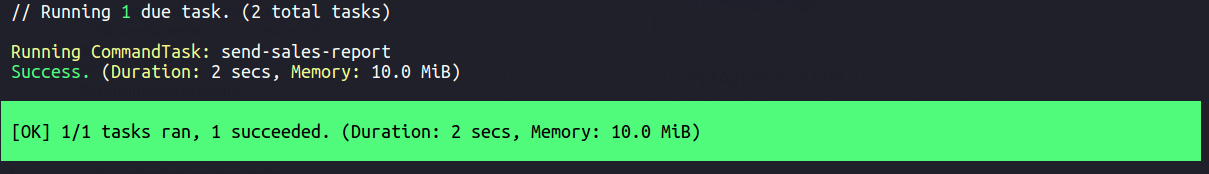
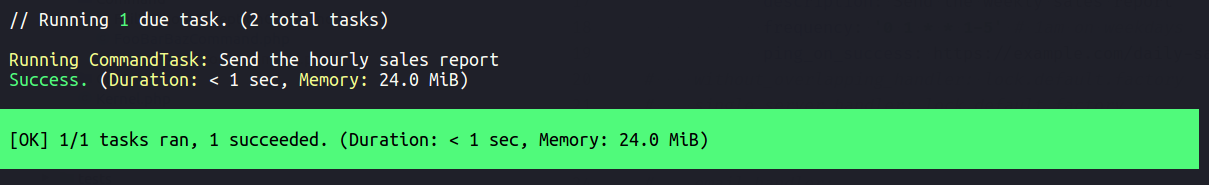
[doc] rewrite cli command doc and update screenshots

diff --git a/doc/cli-commands.md b/doc/cli-commands.md
@@ -34,11 +34,13 @@ zenstruck_schedule:
     
     tasks:
         -   command: send-sales-report --hourly
+            description: Send the hourly sales report
             frequency: '15 * * * 1-5' # hourly on weekdays
             without_overlapping: ~
             email_on_failure: admin@example.com
 
         -   command: send-sales-report --daily
+            description: Send the weekly sales report
             frequency: '0 1 * * 1-5' # 1am on weekdays
             ping_on_success: https://example.com/daily-sales-report
 ```
@@ -48,17 +50,87 @@ following output (exit code `1`):
 
 ```console
 $ bin/console schedule:list
+
+2 Scheduled Tasks Configured
+============================
+
+ ----------------- ------------------------------ ------------ ------------------------------------------------- --------------------------- 
+  Type              Description                    Extensions   Frequency                                         Next Run                   
+ ----------------- ------------------------------ ------------ ------------------------------------------------- --------------------------- 
+  [!] CommandTask   Send the hourly sales report   2            15 * * * 1-5 (Once an hour 5 days a week)         2020-01-22T14:15:00-05:00  
+  CommandTask       Send the weekly sales report   1            0 1 * * 1-5 (Every day 5 days a week at 1:00am)   2020-01-23T01:00:00-05:00  
+ ----------------- ------------------------------ ------------ ------------------------------------------------- --------------------------- 
+
+ [WARNING] 1 task issue:
+
+ [ERROR] To use the email extension you must configure a mailer (config path: "zenstruck_schedule.email_handler").      
+
+ ! [NOTE] For more details, run php bin/console schedule:list --detail
+
+ // 1 Schedule Extension:
+
+ * Run on single server (Zenstruck\ScheduleBundle\Schedule\Extension\SingleServerExtension)
+
+ [WARNING] 1 issue with schedule:
+
+ [ERROR] To use "onSingleServer" you must configure a lock factory (config path:
+         "zenstruck_schedule.single_server_handler").
 ```
 
-![schedule:list with issues](images/schedule-list_issues.png)
+![schedule:list with issues](images/schedule-list-with-issues.png)
 
-Running with the `--detail` flag shows the following (exit code `1`):
+Running with the `--detail` flag outputs the following (exit code `1`):
 
 ```console
 $ bin/console schedule:list --detail
-```
 
-![schedule:list --detail with issues](images/schedule-list-detail_issues.png)
+2 Scheduled Tasks Configured
+============================
+
+(1/2) CommandTask: Send the hourly sales report
+-----------------------------------------------
+
+ ------------------- ---------------------------------------------------- 
+  ID                  9d2023944f540105dd47f7f314138fe92e40300c            
+  Class               Zenstruck\ScheduleBundle\Schedule\Task\CommandTask  
+  Command Arguments   --hourly                                            
+  Frequency           15 * * * 1-5 (Once an hour 5 days a week)           
+  Next Run            Wed, Jan 22, 2020 @ 2:15 (America/New_York -0500)   
+ ------------------- ---------------------------------------------------- 
+
+ // 2 Task Extensions:
+
+ * Without overlapping (Zenstruck\ScheduleBundle\Schedule\Extension\WithoutOverlappingExtension)
+ * On Task Failure, email output to "admin@example.com" (Zenstruck\ScheduleBundle\Schedule\Extension\EmailExtension)
+
+ [WARNING] 1 issue with this task:
+
+ [ERROR] To use the email extension you must configure a mailer (config path: "zenstruck_schedule.email_handler").      
+
+(2/2) CommandTask: Send the weekly sales report
+-----------------------------------------------
+
+ ------------------- ---------------------------------------------------- 
+  ID                  92e08f41a257b69fe877e132559fb7396e308309            
+  Class               Zenstruck\ScheduleBundle\Schedule\Task\CommandTask  
+  Command Arguments   --daily                                             
+  Frequency           0 1 * * 1-5 (Every day 5 days a week at 1:00am)     
+  Next Run            Thu, Jan 23, 2020 @ 1:00 (America/New_York -0500)   
+ ------------------- ---------------------------------------------------- 
+
+ // 1 Task Extension:
+
+ * On Task Success, ping "https://example.com/daily-sales-report" (Zenstruck\ScheduleBundle\Schedule\Extension\PingExtension)
+
+ // 1 Schedule Extension:
+
+ * Run on single server (Zenstruck\ScheduleBundle\Schedule\Extension\SingleServerExtension)
+
+ [WARNING] 1 issue with schedule:
+
+ [ERROR] To use "onSingleServer" you must configure a lock factory (config path:
+         "zenstruck_schedule.single_server_handler").
+```
 
 There are two issues that need to be resolved in the bundle config:
 
@@ -72,21 +144,77 @@ zenstruck_schedule:
         default_from: webmaster@example.com
 ```
 
-Running now shows the following (exit code `0`):
+Running now outputs the following (exit code `0`):
 
 ```console
 $ bin/console schedule:list
+
+2 Scheduled Tasks Configured
+============================
+
+ ------------- ------------------------------ ------------ ------------------------------------------------- --------------------------- 
+  Type          Description                    Extensions   Frequency                                         Next Run                   
+ ------------- ------------------------------ ------------ ------------------------------------------------- --------------------------- 
+  CommandTask   Send the hourly sales report   2            15 * * * 1-5 (Once an hour 5 days a week)         2020-01-22T14:15:00-05:00  
+  CommandTask   Send the weekly sales report   1            0 1 * * 1-5 (Every day 5 days a week at 1:00am)   2020-01-23T01:00:00-05:00  
+ ------------- ------------------------------ ------------ ------------------------------------------------- --------------------------- 
+
+ ! [NOTE] For more details, run php bin/console schedule:list --detail
+
+ // 1 Schedule Extension:
+
+ * Run on single server (Zenstruck\ScheduleBundle\Schedule\Extension\SingleServerExtension)
+
+ [OK] No schedule or task issues.
 ```
 
 ![schedule:list](images/schedule-list.png)
 
-Running with the `--detail` flag shows the following (exit code `0`):
+Running with the `--detail` flag outputs the following (exit code `0`):
 
 ```console
 $ bin/console schedule:list --detail
-```
 
-![schedule:list --detail](images/schedule-list-detail.png)
+2 Scheduled Tasks Configured
+============================
+
+(1/2) CommandTask: Send the hourly sales report
+-----------------------------------------------
+
+ ------------------- ---------------------------------------------------- 
+  ID                  9d2023944f540105dd47f7f314138fe92e40300c            
+  Class               Zenstruck\ScheduleBundle\Schedule\Task\CommandTask  
+  Command Arguments   --hourly                                            
+  Frequency           15 * * * 1-5 (Once an hour 5 days a week)           
+  Next Run            Wed, Jan 22, 2020 @ 2:15 (America/New_York -0500)   
+ ------------------- ---------------------------------------------------- 
+
+ // 2 Task Extensions:
+
+ * Without overlapping (Zenstruck\ScheduleBundle\Schedule\Extension\WithoutOverlappingExtension)
+ * On Task Failure, email output to "admin@example.com" (Zenstruck\ScheduleBundle\Schedule\Extension\EmailExtension)
+
+(2/2) CommandTask: Send the weekly sales report
+-----------------------------------------------
+
+ ------------------- ---------------------------------------------------- 
+  ID                  92e08f41a257b69fe877e132559fb7396e308309            
+  Class               Zenstruck\ScheduleBundle\Schedule\Task\CommandTask  
+  Command Arguments   --daily                                             
+  Frequency           0 1 * * 1-5 (Every day 5 days a week at 1:00am)     
+  Next Run            Thu, Jan 23, 2020 @ 1:00 (America/New_York -0500)   
+ ------------------- ---------------------------------------------------- 
+
+ // 1 Task Extension:
+
+ * On Task Success, ping "https://example.com/daily-sales-report" (Zenstruck\ScheduleBundle\Schedule\Extension\PingExtension)
+
+ // 1 Schedule Extension:
+
+ * Run on single server (Zenstruck\ScheduleBundle\Schedule\Extension\SingleServerExtension)
+
+ [OK] No schedule or task issues.
+```
 
 ## schedule:run
 
@@ -121,20 +249,95 @@ job to your production server(s) running every minute:
 ```
 
 The above Cron job sends the command output to `/dev/null` but the command does
-produce output if you wish to store that somewhere. Using the example from
-`schedule:list` above and assuming one of the tasks are due at time of run, the
-command will output the following  (exit code `0`):
+produce output if you wish to store that somewhere.
+
+Using the example from [`schedule:list`](#schedulelist) above and assuming one of
+the tasks is due at time of run, and the it ran successfully, the command will
+output the following (exit code `0`):
 
 ```console
 $ bin/console schedule:run
+
+ // Running 1 due task. (2 total tasks)
+
+ Running CommandTask: Send the hourly sales report
+ Success. (Duration: < 1 sec, Memory: 10.0 MiB)
+
+ [OK] 1/1 tasks ran, 1 succeeded. (Duration: < 1 sec, Memory: 10.0 MiB)
 ```
 
 ![schedule:run](images/schedule-run.png)
 
-Running the command with the verbose flag (`-v`) displays task output:
+Running the command with the verbose flag (`-v`) displays task output
+(exit code `0`):
 
 ```console
 $ bin/console schedule:run -v
+
+ // Running 1 due task. (2 total tasks)
+
+ Running CommandTask: Send the hourly sales report
+ ---begin output---
+
+ ! [NOTE] Generating hourly report...
+
+    0/1000 [░░░░░░░░░░░░░░░░░░░░░░░░░░░░]   0% < 1 sec
+  100/1000 [▓▓░░░░░░░░░░░░░░░░░░░░░░░░░░]  10% < 1 sec
+  200/1000 [▓▓▓▓▓░░░░░░░░░░░░░░░░░░░░░░░]  20% < 1 sec
+  300/1000 [▓▓▓▓▓▓▓▓░░░░░░░░░░░░░░░░░░░░]  30% < 1 sec
+  400/1000 [▓▓▓▓▓▓▓▓▓▓▓░░░░░░░░░░░░░░░░░]  40% < 1 sec
+  500/1000 [▓▓▓▓▓▓▓▓▓▓▓▓▓▓░░░░░░░░░░░░░░]  50%  1 sec
+  600/1000 [▓▓▓▓▓▓▓▓▓▓▓▓▓▓▓▓░░░░░░░░░░░░]  60%  1 sec
+  700/1000 [▓▓▓▓▓▓▓▓▓▓▓▓▓▓▓▓▓▓▓░░░░░░░░░]  70%  1 sec
+  800/1000 [▓▓▓▓▓▓▓▓▓▓▓▓▓▓▓▓▓▓▓▓▓▓░░░░░░]  80%  1 sec
+  900/1000 [▓▓▓▓▓▓▓▓▓▓▓▓▓▓▓▓▓▓▓▓▓▓▓▓▓░░░]  90%  1 sec
+ 1000/1000 [▓▓▓▓▓▓▓▓▓▓▓▓▓▓▓▓▓▓▓▓▓▓▓▓▓▓▓▓] 100%  1 sec
+
+ [OK] Hourly report sent.
+
+ ---end output---
+ Success. (Duration: 1 sec, Memory: 10.0 MiB)
+
+ [OK] 1/1 tasks ran, 1 succeeded. (Duration: 1 sec, Memory: 10.0 MiB)
 ```
 
-![schedule:run -v](images/schedule-run-v.png)
+Assuming the due task failed, the command will output the following
+(exit code `1`):
+
+```console
+$ bin/console schedule:run
+
+ // Running 1 due task. (2 total tasks)
+
+ Running CommandTask: Send the hourly sales report
+ Exception: RuntimeException: some error happened... (Duration: < 1 sec, Memory: 10.0 MiB)
+
+ [ERROR] 1/1 tasks ran, 1 failed. (Duration: 1 sec, Memory: 10.0 MiB)
+```
+
+![schedule:run with failure](images/schedule-run-error.png)
+
+Again, assuming the due task failed, the command with the verbose flag
+(`-v`) displays task output (exit code `1`):
+
+```console
+$ bin/console schedule:run -v
+
+ // Running 1 due task. (2 total tasks)
+
+ Running CommandTask: Send the hourly sales report
+ ---begin output---
+
+ ! [NOTE] Generating hourly report...
+
+    0/1000 [░░░░░░░░░░░░░░░░░░░░░░░░░░░░]   0% < 1 sec
+  100/1000 [▓▓░░░░░░░░░░░░░░░░░░░░░░░░░░]  10% < 1 sec
+  200/1000 [▓▓▓▓▓░░░░░░░░░░░░░░░░░░░░░░░]  20% < 1 sec
+  300/1000 [▓▓▓▓▓▓▓▓░░░░░░░░░░░░░░░░░░░░]  30% < 1 sec
+  400/1000 [▓▓▓▓▓▓▓▓▓▓▓░░░░░░░░░░░░░░░░░]  40% < 1 sec
+  500/1000 [▓▓▓▓▓▓▓▓▓▓▓▓▓▓░░░░░░░░░░░░░░]  50% < 1 sec
+ ---end output---
+ Exception: RuntimeException: some error happened... (Duration: < 1 sec, Memory: 10.0 MiB)
+
+ [ERROR] 1/1 tasks ran, 1 failed. (Duration: 1 sec, Memory: 10.0 MiB)
+```
